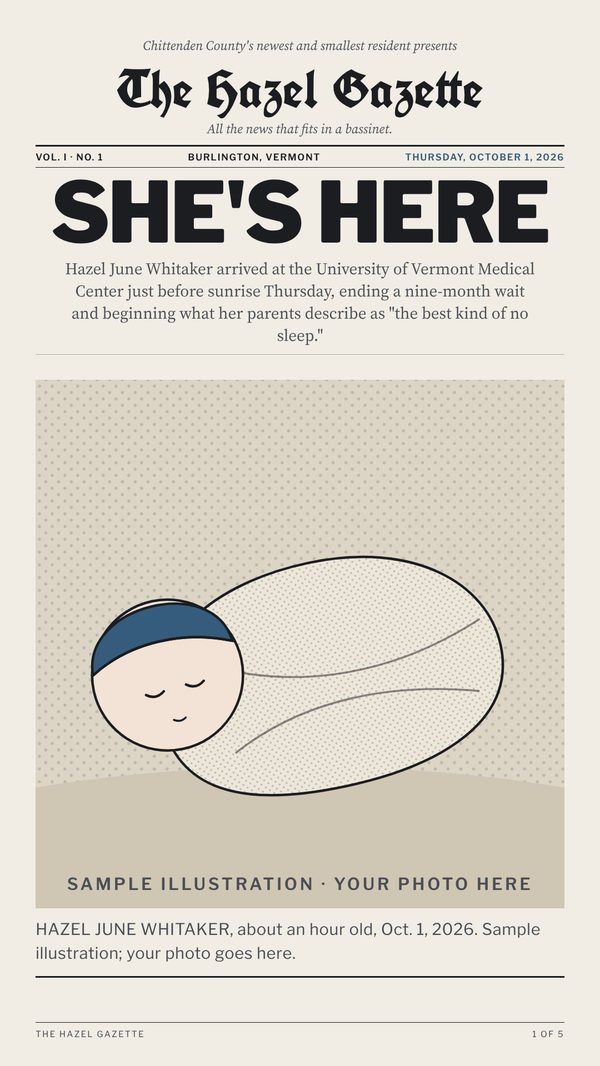
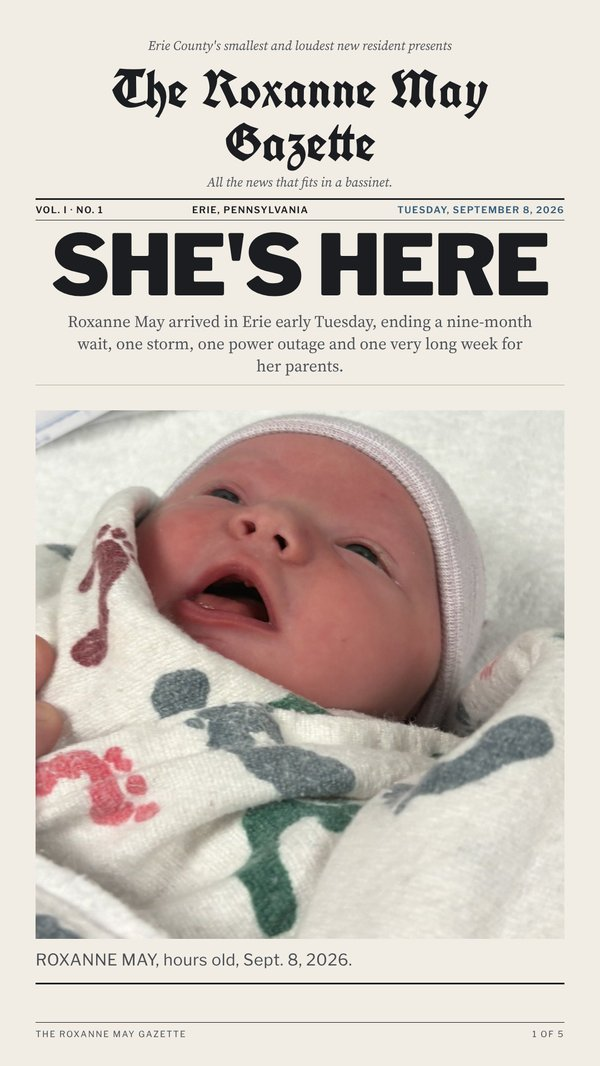
Website v1.2: sticky nav, section CTAs, order/FAQ/signup (shop: soon), Roxanne sample, Pinterest verify tag
Sarah approved Oct 5; Steve and Sarah waived the 48-hour wait Oct 6.

Claude-Session: https://claude.ai/code/session_01LwTWL9F2eZiP7iN7hgFm6o

diff --git a/index.html b/index.html
@@ -1,10 +1,10 @@
 <!doctype html>
-<html lang="en">
+<html lang="en" data-shop="soon">
 <head>
 <meta charset="utf-8">
 <meta name="viewport" content="width=device-width, initial-scale=1, viewport-fit=cover">
 <title>Newsborn Press</title>
-     <meta name="p:domain_verify" content="c083eeeed482a2c7479dff882aba1f59"/>
+<meta name="p:domain_verify" content="c083eeeed482a2c7479dff882aba1f59"/>
 <meta name="description" content="Personalized newspapers for new arrivals, written and set for the day your baby was born. Every baby makes the front page.">
 <meta property="og:title" content="Newsborn Press">
 <meta property="og:description" content="Personalized newspapers for new arrivals. Every baby makes the front page.">
@@ -107,24 +107,109 @@ figure{margin:0;display:flex;flex-direction:column;gap:8px}
 .colophon .mark{display:inline-flex;align-items:center;gap:8px}
 .colophon svg{width:22px;height:22px}
 @media (prefers-reduced-motion:no-preference){.reel{scroll-behavior:smooth}}
+/* v1.1: launch switch. data-shop="soon" until launch, "open" after (set in SHOP config at the bottom) */
+[data-shop="soon"] .when-open,[data-shop="open"] .when-soon{display:none !important}
+
+/* order */
+.order{border:3px solid var(--ink);padding:28px 24px;display:grid;grid-template-columns:repeat(auto-fit,minmax(min(100%,300px),1fr));gap:32px;align-items:start}
+.order > *{min-width:0}
+.price{font-family:var(--f-head);font-weight:900;font-size:64px;line-height:1}
+.price small{font-size:15px;font-weight:800;letter-spacing:.1em;text-transform:uppercase;color:var(--graphite);margin-left:10px}
+.ticks{list-style:none;padding:0;margin:0;display:flex;flex-direction:column;gap:8px}
+.ticks li{padding-left:24px;position:relative}
+.ticks li::before{content:"";position:absolute;left:0;top:.68em;width:12px;height:3px;background:var(--stork)}
+.paths{display:flex;flex-direction:column;gap:14px}
+.paths .btn{text-align:center}
+.alt{border-top:1px dotted var(--rule);padding-top:14px;display:flex;flex-direction:column;gap:4px}
+.alt b{font-family:var(--f-head);font-weight:800;font-size:17px}
+.alt p{color:var(--graphite);font-size:16px;line-height:1.45}
+
+/* faq */
+.faq{border-top:1px solid var(--rule)}
+.faq details{border-bottom:1px solid var(--rule-faint);padding:14px 0}
+.faq summary{font-family:var(--f-head);font-weight:800;font-size:18px;cursor:pointer;list-style:none;display:flex;justify-content:space-between;gap:16px}
+.faq summary::-webkit-details-marker{display:none}
+.faq summary::after{content:"+";color:var(--stork);font-weight:900;font-size:22px;line-height:1}
+.faq details[open] summary::after{content:"\2212"}
+.faq details p{margin-top:10px;color:var(--graphite);max-width:65ch;font-size:17px}
+
+/* signup */
+.signup{display:flex;flex-wrap:wrap;gap:12px;align-items:flex-end;width:100%}
+.field{display:flex;flex-direction:column;gap:4px;flex:1 1 220px;min-width:0}
+.field label{font-family:var(--f-head);font-weight:800;font-size:12px;letter-spacing:.12em;text-transform:uppercase;color:var(--graphite)}
+.field input{font:inherit;font-size:17px;padding:10px 12px;min-height:48px;border:2px solid var(--ink);border-radius:0;background:var(--newsprint);color:var(--ink);width:100%}
+.signup .btn{min-height:48px}
+
+/* v1.2: sticky top bar with section menu, per-section CTAs, back to top */
+html{scroll-padding-top:72px}
+.topbar{position:sticky;top:0;z-index:20;margin-inline:-20px;margin-top:-24px;margin-bottom:24px;padding:10px 20px;background:var(--newsprint);border-bottom:1px solid var(--ink);display:flex;align-items:center;justify-content:space-between;gap:12px}
+.topbar .brand{font-family:var(--f-nameplate);font-weight:700;font-size:24px;line-height:1;color:var(--ink);text-decoration:none;white-space:nowrap}
+.topbar .right{display:flex;align-items:center;gap:10px}
+.topbar .btn{padding:9px 14px;font-size:13px;white-space:nowrap}
+.menu-btn{display:inline-flex;align-items:center;gap:8px}
+.menu-btn svg{width:18px;height:18px}
+.menu{position:absolute;right:20px;top:100%;margin-top:6px;min-width:240px;background:var(--newsprint);border:2px solid var(--ink);box-shadow:6px 6px 0 var(--rule-faint);display:flex;flex-direction:column;padding:6px 0}
+.menu[hidden]{display:none}
+.menu a{font-family:var(--f-head);font-weight:800;font-size:15px;letter-spacing:.04em;text-transform:uppercase;text-decoration:none;color:var(--ink);padding:12px 18px;border-bottom:1px dotted var(--rule)}
+.menu a:last-child{border-bottom:0;color:var(--stork)}
+.menu a:hover{background:var(--newsprint-deep)}
+.foot{display:flex;flex-wrap:wrap;justify-content:space-between;align-items:center;gap:12px 20px;border-top:1px dotted var(--rule);padding-top:16px}
+.foot .go{font-family:var(--f-head);font-weight:800;font-size:15px;letter-spacing:.06em;text-transform:uppercase;text-decoration:none;color:var(--stork)}
+.foot .go:hover{text-decoration:underline}
+.foot .top{font-family:var(--f-head);font-size:13px;letter-spacing:.08em;text-transform:uppercase;color:var(--graphite);text-decoration:none}
+.foot .top:hover{color:var(--ink)}
+@media (max-width:700px){ [data-shop="open"] .topbar .cta{display:none} .topbar .brand{font-size:20px} }
+@media (max-width:480px){ .topbar .cta{display:none} }
+
+/* mobile order bar (open only) */
+.orderbar{display:none}
+@media (max-width:700px){
+  [data-shop="open"] .orderbar{display:flex;position:fixed;left:0;right:0;bottom:0;z-index:10;justify-content:space-between;align-items:center;gap:12px;padding:10px 16px calc(10px + env(safe-area-inset-bottom));background:var(--newsprint);border-top:3px solid var(--ink);font-family:var(--f-head);font-weight:800;font-size:14px;letter-spacing:.06em;text-transform:uppercase;transition:transform .2s}
+  [data-shop="open"] body{padding-bottom:104px}
+  .orderbar.away{transform:translateY(110%)}
+  .orderbar .btn{padding:10px 18px}
+}
 </style>
 </head>
-<body>
+<body id="top">
+<nav class="topbar" aria-label="Site">
+  <a class="brand" href="#top">Newsborn Press</a>
+  <div class="right">
+    <a class="btn primary cta when-soon" href="#contact">Get first word</a>
+    <a class="btn primary cta when-open" href="#order">Order</a>
+    <button class="btn menu-btn" type="button" id="menu-btn" aria-expanded="false" aria-controls="menu"><svg viewBox="0 0 24 24" aria-hidden="true"><path d="M3 6h18M3 12h18M3 18h18" stroke="currentColor" stroke-width="2.5"/></svg>Sections</button>
+  </div>
+  <div class="menu" id="menu" hidden>
+    <a href="#paper">The sample paper</a>
+    <a href="#included">What you get</a>
+    <a href="#how">How it works</a>
+    <a href="#style">Pick your style</a>
+    <a href="#order" class="when-open">Order, $50</a>
+    <a href="#faq">Questions</a>
+    <a href="#about">About the press</a>
+    <a href="#contact" class="when-soon">Get first word</a>
+    <a href="#contact" class="when-open">Due-date list</a>
+  </div>
+</nav>
 
 
 <main class="sheet">
 
 <section class="mast" aria-label="Masthead">
-  <div class="folio"><span>Vol. I · No. 1</span><span>Erie, Pennsylvania</span><span class="accent">Est. 2026</span><span>Opening soon on Etsy</span></div>
+  <div class="folio"><span>Vol. I · No. 1</span><span>Erie, Pennsylvania</span><span class="accent">Est. 2026</span><span class="when-soon">Opening soon</span><span class="when-open">Now taking orders</span></div>
   <p class="kicker">Personalized newspapers for new arrivals</p>
   <h1 class="nameplate">The Newsborn Press</h1>
   <p class="motto">Every baby makes the front page.</p>
   <div class="rule"></div>
   <p class="banner">Extra! Extra!</p>
   <p class="deck">Your baby's own newspaper, written and set for the day they arrived. Their name in the nameplate, their photo under the banner, and the real weather, prices and No. 1 song from the day they were born.</p>
-  <div class="cta-row">
+  <div class="cta-row when-soon">
     <a class="btn primary" href="#paper">See a sample paper</a>
     <a class="btn" href="#contact">Get first word</a>
+  </div>
+  <div class="cta-row when-open">
+    <a class="btn primary" href="#order">Order a Birth Edition, $50</a>
+    <a class="btn" href="#paper">See a sample paper</a>
   </div>
 </section>
 
@@ -132,8 +217,8 @@ figure{margin:0;display:flex;flex-direction:column;gap:8px}
   <header><span class="label">The Birth Edition</span><h2>A real front page for the biggest news of the year</h2></header>
   <div class="cols">
     <figure>
-      <img src="assets/hero.jpg" alt="Sample Birth Edition, The Hazel Gazette: nameplate, a SHE'S HERE banner headline, an illustrated swaddled baby, the lead story, vital statistics, weather, markets, prices, the Hot 100, sports and a letter from Mom" width="1400" height="1400" loading="eager">
-      <figcaption class="caption">Sample: The Hazel Gazette. The family is fictional; the Oct. 1, 2026 facts are real. Your photo goes where the drawing is.</figcaption>
+      <img src="assets/hero.jpg" alt="Sample Birth Edition, The Roxanne May Gazette: nameplate, a SHE'S HERE banner headline, a photo of Roxanne hours old, the lead story, vital statistics, weather, markets, prices, the Hot 100, sports and a letter from Dad" width="1400" height="1400" loading="eager">
+      <figcaption class="caption">The Roxanne May Gazette: the founder's daughter, and the paper that started the press. Every fact is real for Sept. 8, 2026.</figcaption>
     </figure>
     <div style="display:flex;flex-direction:column;gap:18px">
       <p class="lede">This isn't a template you fill in yourself. You answer a few questions and send your favorite photo, and we write and lay out the paper for you.</p>
@@ -148,6 +233,11 @@ figure{margin:0;display:flex;flex-direction:column;gap:8px}
         <div><b>A letter</b><span>From you, written that day</span></div>
       </div>
     </div>
+  </div>
+<div class="foot">
+    <a class="go when-soon" href="#contact">Want one for your baby? Get first word &rarr;</a>
+    <a class="go when-open" href="#order">Make one for your baby &rarr;</a>
+    <a class="top" href="#top">Back to top &uarr;</a>
   </div>
 </section>
 
@@ -165,7 +255,12 @@ figure{margin:0;display:flex;flex-direction:column;gap:8px}
     <img src="assets/card2.jpg" alt="Phone card 2: the lead story and vital statistics" width="600" height="1066" loading="lazy">
     <img src="assets/card3.jpg" alt="Phone card 3: weather, markets and prices" width="600" height="1066" loading="lazy">
     <img src="assets/card4.jpg" alt="Phone card 4: the world she was born into, the Hot 100 and sports" width="600" height="1066" loading="lazy">
-    <img src="assets/card5.jpg" alt="Phone card 5: around town, a letter from Mom and the masthead" width="600" height="1066" loading="lazy">
+    <img src="assets/card5.jpg" alt="Phone card 5: around town, a letter from Dad and the masthead" width="600" height="1066" loading="lazy">
+  </div>
+<div class="foot">
+    <a class="go when-soon" href="#contact">Stop the presses: get first word when we open &rarr;</a>
+    <a class="go when-open" href="#order">Stop the presses, your baby is here &rarr;</a>
+    <a class="top" href="#top">Back to top &uarr;</a>
   </div>
 </section>
 
@@ -177,13 +272,18 @@ figure{margin:0;display:flex;flex-direction:column;gap:8px}
     <div class="step"><strong>3</strong><h3>We write and set it</h3><p>Every fact researched for the day and town they arrived.</p></div>
     <div class="step"><strong>4</strong><h3>Download and print</h3><p>A proof in 3 to 5 business days, with one round of edits included.</p></div>
   </div>
+<div class="foot">
+    <a class="go when-soon" href="#contact">Get first word when step 1 opens &rarr;</a>
+    <a class="go when-open" href="#order">Start with step 1 &rarr;</a>
+    <a class="top" href="#top">Back to top &uarr;</a>
+  </div>
 </section>
 
 <section class="section" id="style">
   <header><span class="label">Your style</span><h2>Pick a nameplate and an ink</h2></header>
   <div class="cols">
     <figure>
-      <img src="assets/styles.jpg" alt="Three nameplate styles for The Hazel Gazette: Traditional blackletter, Classic Didone and Letterpress small caps" width="1000" height="1000" loading="lazy">
+      <img src="assets/styles.jpg" alt="Three nameplate styles for The Roxanne May Gazette: Traditional blackletter, Classic Didone and Letterpress small caps" width="1000" height="1000" loading="lazy">
     </figure>
     <div style="display:flex;flex-direction:column;gap:20px">
       <p class="lede"><b>Traditional</b> is the blackletter of an old city daily. <b>Classic</b> is a crisp Didone. <b>Letterpress</b> looks hand-set in a small-town shop.</p>
@@ -195,13 +295,60 @@ figure{margin:0;display:flex;flex-direction:column;gap:8px}
       <p class="muted">Gold is saved for milestone editions, like a first birthday.</p>
     </div>
   </div>
+<div class="foot">
+    <a class="go when-soon" href="#contact">Get first word &rarr;</a>
+    <a class="go when-open" href="#order">Choose your style when you order &rarr;</a>
+    <a class="top" href="#top">Back to top &uarr;</a>
+  </div>
+</section>
+
+<section class="section when-open" id="order" aria-labelledby="order-h">
+  <header><span class="label">Order</span><h2 id="order-h">Stop the presses for your baby</h2></header>
+  <div class="order">
+    <div style="display:flex;flex-direction:column;gap:18px">
+      <p class="price">$50<small>Birth Edition</small></p>
+      <ul class="ticks">
+        <li>11×17 broadsheet and 8½×11 letter edition</li>
+        <li>Classic grey versions of both</li>
+        <li>Five phone cards for the family group text</li>
+        <li>A proof in 3 to 5 business days, one round of edits included</li>
+      </ul>
+      <p class="caption">Digital files. Nothing ships, so print as many copies as you like.</p>
+    </div>
+    <div class="paths">
+      <a class="btn primary" id="pay" href="#contact">Order and pay here</a>
+      <a class="btn" id="etsy" href="#contact">Prefer Etsy? Order there</a>
+      <p class="caption">Either way, it's the same paper and the same questionnaire.</p>
+      <div class="alt"><b>Giving it as a gift?</b><p>Order here and we'll email you the questionnaire link to pass along to the parents. Baby not born yet? That works too. We start the paper when the questionnaire comes back.</p></div>
+      <div class="alt"><b>Still waiting on the big day?</b><p><a href="#contact">Leave your due date</a> and we'll send one reminder after it.</p></div>
+    </div>
+  </div>
+  <div class="foot"><span></span><a class="top" href="#top">Back to top &uarr;</a></div>
+</section>
+
+<section class="section" id="faq" aria-labelledby="faq-h">
+  <header><span class="label">Questions</span><h2 id="faq-h">Before you order</h2></header>
+  <div class="faq">
+    <details><summary>How long does it take?</summary><p>You'll get a proof within 3 to 5 business days of sending the questionnaire. One round of edits is included, and the final files follow.</p></details>
+    <details><summary>What do I actually receive?</summary><p>Digital files: the 11×17 broadsheet, the 8½×11 letter edition, classic grey versions of both, and five phone cards. No paper is mailed, so you can print as many as you like.</p></details>
+    <details><summary>How should I print it?</summary><p>The 11×17 looks best printed at a local print or copy shop on matte paper. The letter edition prints fine at home.</p></details>
+    <details><summary>Can I order before the baby arrives?</summary><p>Yes, and it makes a good shower gift. Order anytime and fill in the questionnaire once the baby is here.</p></details>
+    <details><summary>Where do the facts come from?</summary><p>Public sources for the exact date: the National Weather Service, market data, government price reports, the music charts and the sports pages. We keep a list of sources for every paper.</p></details>
+    <details><summary>What happens to our photos and details?</summary><p>We use them only to make your paper and delete them 30 days after delivery. We never show your baby in our marketing without your written permission.</p></details>
+    <details><summary>Do you use AI?</summary><p>We use AI tools to help research the day's facts and draft copy. A person reads and checks every word before it reaches you.</p></details>
+  </div>
+<div class="foot">
+    <a class="go when-soon" href="#contact">Still curious? Get first word &rarr;</a>
+    <a class="go when-open" href="#order">Ready? Order a Birth Edition &rarr;</a>
+    <a class="top" href="#top">Back to top &uarr;</a>
+  </div>
 </section>
 
 <section class="section" id="about">
   <header><span class="label">About the press</span><h2>Started at a kitchen table in Erie</h2></header>
   <div class="cols">
     <div style="display:flex;flex-direction:column;gap:16px">
-      <p class="lede">Newsborn Press started at a kitchen table in Erie, Pennsylvania, in the fall of 2026. A new dad made his daughter a newspaper for the day she was born, with the weather off the lake, the price of gas, the song on the radio and a letter from her parents. The family kept asking for copies.</p>
+      <p class="lede">Newsborn Press started at a kitchen table in Erie, Pennsylvania, in the fall of 2026. A new dad made his daughter, Roxanne May, a newspaper for the day she was born, with the weather off the lake, the price of gas, the song on the radio and a letter from her parents. The family kept asking for copies.</p>
       <p class="lede">So now we make them for other families. Every Birth Edition is written for one baby and checked by hand.</p>
       <p class="sig">Steve Richards, Founder &amp; Pressman</p>
     </div>
@@ -216,17 +363,24 @@ figure{margin:0;display:flex;flex-direction:column;gap:8px}
       <p class="caption">We use AI tools to help research the day's facts and draft copy. A person reads and checks every word before it reaches you.</p>
     </div>
   </div>
+<div class="foot">
+    <a class="go when-soon" href="#contact">Join the first press run &rarr;</a>
+    <a class="go when-open" href="#order">Order a Birth Edition &rarr;</a>
+    <a class="top" href="#top">Back to top &uarr;</a>
+  </div>
 </section>
 
 <section class="contact" id="contact" aria-labelledby="contact-h">
-  <span class="label">Opening soon</span>
-  <h2 id="contact-h">The shop opens on Etsy soon</h2>
-  <p class="lede">Expecting, or know someone who is? Write to us and we'll let you know the day the press starts running.</p>
-  <div class="email">
-    <code id="addr">hello@newsbornpress.com</code>
-    <button class="btn" type="button" id="copy">Copy address</button>
-  </div>
+  <span class="label when-soon">Opening soon</span><span class="label when-open">Due-date list</span>
+  <h2 id="contact-h"><span class="when-soon">Get first word when the press starts running</span><span class="when-open">Baby not here yet?</span></h2>
+  <p class="lede"><span class="when-soon">Expecting, or know someone who is? Leave your email and we'll write once, the day the shop opens.</span><span class="when-open">Leave your email and due date. We'll send one reminder after the big day, and nothing else.</span></p>
+  <form class="signup" id="signup" novalidate>
+    <div class="field"><label for="su-email">Email</label><input id="su-email" name="email" type="email" autocomplete="email" required></div>
+    <div class="field"><label for="su-due">Due date (optional)</label><input id="su-due" name="due" type="date"></div>
+    <button class="btn primary" type="submit">Get first word</button>
+  </form>
   <p class="status" id="status" role="status" aria-live="polite"></p>
+  <div class="email"><span class="caption">Or write to us at</span><code id="addr">hello@newsbornpress.com</code><button class="btn" type="button" id="copy">Copy address</button></div>
 </section>
 
 <footer class="colophon">
@@ -236,14 +390,63 @@ figure{margin:0;display:flex;flex-direction:column;gap:8px}
 </footer>
 
 </main>
+<div class="orderbar when-open" id="orderbar"><span>Birth Edition · $50</span><a class="btn primary" href="#order">Order</a></div>
 <script>
+/* SHOP config: the only lines to change at launch.
+   status: "soon" until launch, "open" after Sarah's OK + 48 hours.
+   stripe: the Stripe Payment Link URL.  etsy: the Etsy listing URL.
+   signup: a form endpoint for the email list; leave "" and the form opens an email to hello@ instead. */
+var SHOP = { status: "soon", stripe: "", etsy: "", signup: "" };
+
 (function(){
+  var root=document.documentElement;
+  root.setAttribute('data-shop', SHOP.status==='open' ? 'open' : 'soon');
+
+  // where did they come from? passed to Stripe so each order shows its platform
+  var src='';
+  try{ src=(new URLSearchParams(location.search).get('utm_source')||'').replace(/[^a-z0-9_-]/gi,'').slice(0,50); }catch(e){}
+  var pay=document.getElementById('pay'), etsy=document.getElementById('etsy');
+  if(SHOP.stripe){ pay.href = SHOP.stripe + (src ? (SHOP.stripe.indexOf('?')<0?'?':'&') + 'client_reference_id=' + encodeURIComponent(src) : ''); }
+  if(SHOP.etsy){ etsy.href = SHOP.etsy; }
+
+  // copy address
   var btn=document.getElementById('copy'), st=document.getElementById('status'), addr=document.getElementById('addr');
   btn.addEventListener('click',function(){
     var text=addr.textContent;
     function pick(){var r=document.createRange();r.selectNodeContents(addr);var s=window.getSelection();s.removeAllRanges();s.addRange(r);st.textContent='Selected. Press ⌘C or Ctrl+C to copy.';}
     if(navigator.clipboard&&navigator.clipboard.writeText){navigator.clipboard.writeText(text).then(function(){st.textContent='Copied to your clipboard.';},pick);}else{pick();}
   });
+
+  // signup
+  var form=document.getElementById('signup');
+  form.addEventListener('submit',function(e){
+    e.preventDefault();
+    var em=form.email.value.trim(), due=form.due.value;
+    if(!/^[^@\s]+@[^@\s]+\.[^@\s]+$/.test(em)){ st.textContent="That email address looks off. Mind checking it?"; form.email.focus(); return; }
+    if(SHOP.signup){
+      fetch(SHOP.signup,{method:'POST',body:new FormData(form),headers:{'Accept':'application/json'}})
+        .then(function(r){ if(!r.ok) throw new Error(r.status); form.reset(); st.textContent="You're on the list. We'll write once."; })
+        .catch(function(){ st.textContent="That didn't go through. Write to hello@newsbornpress.com and we'll add you."; });
+    } else {
+      var body='Please let me know when Newsborn Press opens.'+(due?'\nDue date: '+due:'')+'\nMy email: '+em;
+      location.href='mailto:hello@newsbornpress.com?subject='+encodeURIComponent('First word')+'&body='+encodeURIComponent(body);
+      st.textContent='Your email app should open with a note ready to send.';
+    }
+  });
+
+  // v1.2 section menu
+  var mb=document.getElementById('menu-btn'), menu=document.getElementById('menu');
+  function closeMenu(){ menu.hidden=true; mb.setAttribute('aria-expanded','false'); }
+  mb.addEventListener('click',function(e){ e.stopPropagation(); var open=menu.hidden; menu.hidden=!open; mb.setAttribute('aria-expanded', String(open)); if(open){ var f=menu.querySelector('a:not([hidden])'); if(f) f.focus(); } });
+  menu.addEventListener('click',function(e){ if(e.target.closest('a')) closeMenu(); });
+  document.addEventListener('click',function(e){ if(!menu.hidden && !menu.contains(e.target)) closeMenu(); });
+  document.addEventListener('keydown',function(e){ if(e.key==='Escape' && !menu.hidden){ closeMenu(); mb.focus(); } });
+
+  // mobile order bar steps aside while the order section is on screen
+  var bar=document.getElementById('orderbar'), order=document.getElementById('order');
+  if(bar && order && 'IntersectionObserver' in window){
+    new IntersectionObserver(function(es){ bar.classList.toggle('away', es[0].isIntersecting); }).observe(order);
+  }
 })();
 </script>
 
